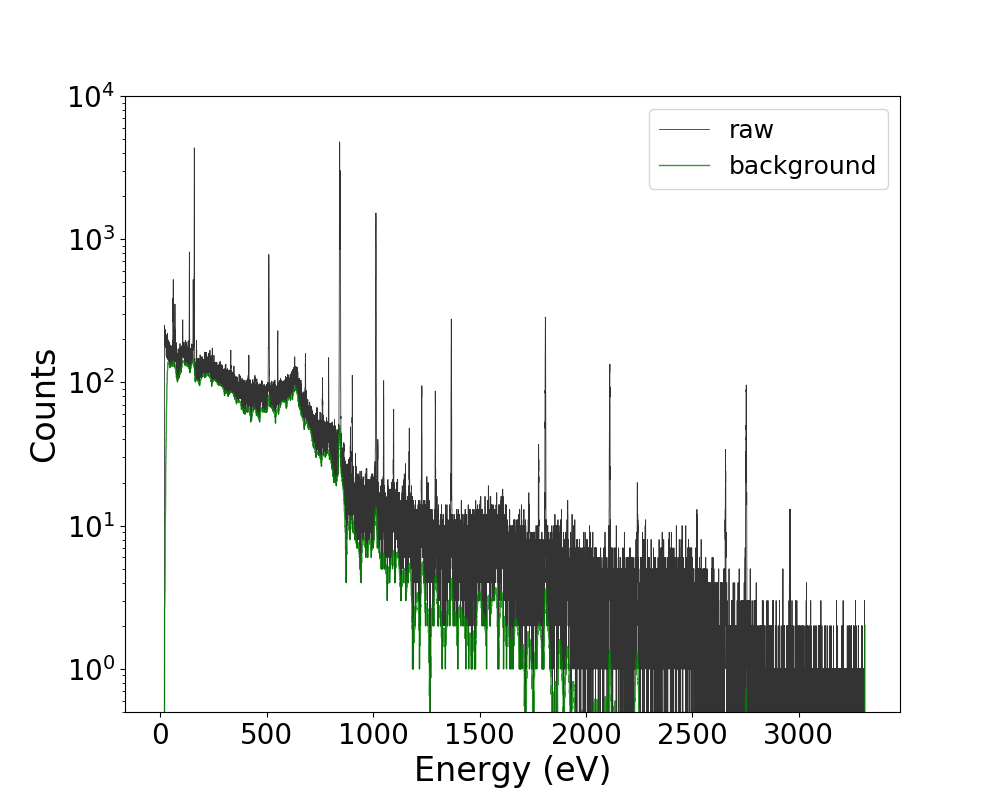
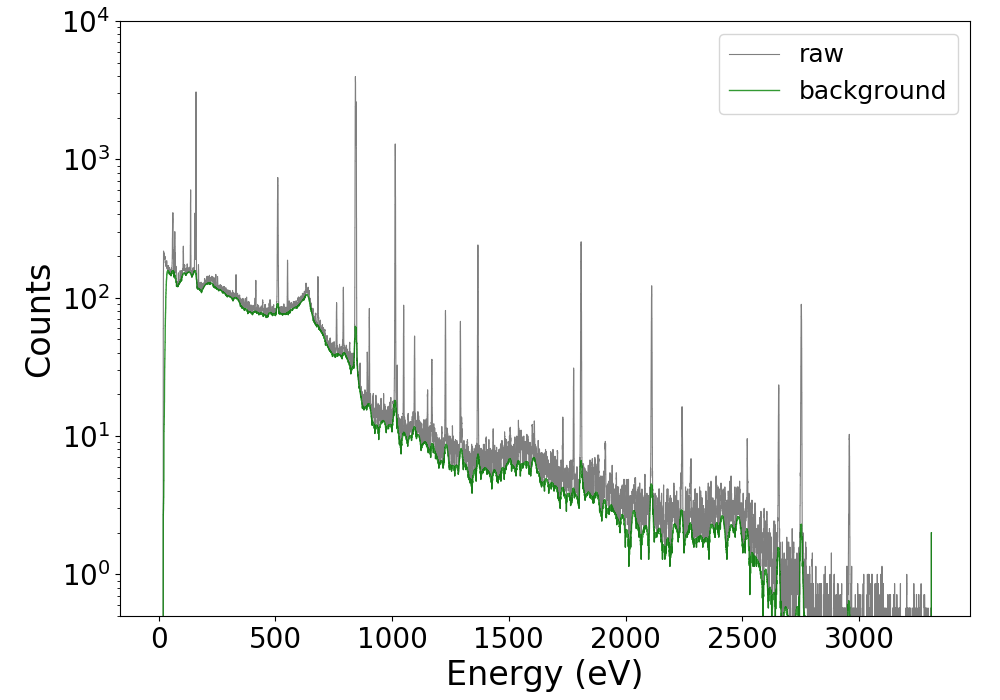
Updated example script. Fixed Eigen combine issue.

diff --git a/examples/realspectrum.py b/examples/realspectrum.py
@@ -7,15 +7,21 @@ filename = os.path.join(os.path.dirname(os.path.abspath(__file__)),
                         '..', 'reference', 'spectrum0.csv')
 
 # read in from csv file
-hist = pkd.core.SpectrumEnergyBased()
-pkd.io.from_csv(hist, filename)
-energies, counts = hist.X, hist.Y
+hist_raw = pkd.core.SpectrumEnergyBased()
+pkd.io.from_csv(hist_raw, filename)
+energies, counts = hist_raw.X, hist_raw.Y
+
+# smooth it
+smoother = pkd.core.MovingAverageSmoother(3)
+# smoother = pkd.core.WeightedMovingAverageSmoother(5)
+counts = smoother(counts)
+hist_smoothed = pkd.core.SpectrumEnergyBased(energies, counts)
 
 # estimate and then remove background
 ITERS = 15
-background = hist.estimateBackground(ITERS)
-hist.removeBackground(ITERS)
-snippedCounts = hist.Y
+background = hist_smoothed.estimateBackground(ITERS)
+hist_smoothed.removeBackground(ITERS)
+snippedCounts = hist_smoothed.Y
 
 # function to plot histogram
 def getplotvalues(x,y):
@@ -35,8 +41,8 @@ def getplotvalues(x,y):
 # plot the histogram
 import matplotlib.pyplot as plt
 
-f = plt.figure(figsize=(10,8))
-plt.semilogy(*getplotvalues(energies, counts), 'k', linewidth=0.6, alpha=0.8, label="raw")
+f = plt.figure(figsize=(10,7))
+plt.semilogy(*getplotvalues(energies, counts), 'k', linewidth=0.8, alpha=0.5, label="raw")
 # plt.semilogy(*getplotvalues(energies, snippedCounts), 'r', linewidth=0.4, alpha=0.5, label="no background")
 plt.semilogy(*getplotvalues(energies, background), 'g', linewidth=1.0, alpha=0.8, label="background")
 plt.ylim(bottom=0.5, top=1e4)
@@ -46,6 +52,6 @@ plt.legend(fontsize=18)
 plt.tick_params(axis='both', which='major', labelsize=20)
 plt.tick_params(axis='both', which='minor', labelsize=20)
 # spacing
-# plt.subplots_adjust(left=0.06, bottom=0.12, right=0.97, top=0.97, wspace=0.2, hspace=0.2)
+plt.subplots_adjust(left=0.12, bottom=0.12, right=0.97, top=0.97, wspace=0.2, hspace=0.2)
 # plt.savefig('sample.png')
 plt.show()

diff --git a/include/core/numerical.hpp b/include/core/numerical.hpp
@@ -250,18 +250,8 @@ PEAKINGDUCK_NAMESPACE_START(core)
     */
     template<typename T=DefaultType, int Size=ArrayTypeDynamic>
     NumericalData<T, Size> combine(const NumericalData<T, ArrayTypeDynamic>& one, const NumericalData<T, ArrayTypeDynamic>& two){
-
         NumericalData<T, Size> combined(one.size() + two.size());
-        // cannot do this - needs access to DenseBase but clang complains
-        // ** combined << one, two;
-        // instead we just do a loop - there must be a better way
-        for(int i=0;i<one.size();++i){
-            combined[i] = one[i];
-        }
-
-        for(int i=0;i<two.size();++i){
-            combined[i+one.size()] = two[i];
-        }
+        combined << one.eval(), two.eval();
         return combined;
     }
 
